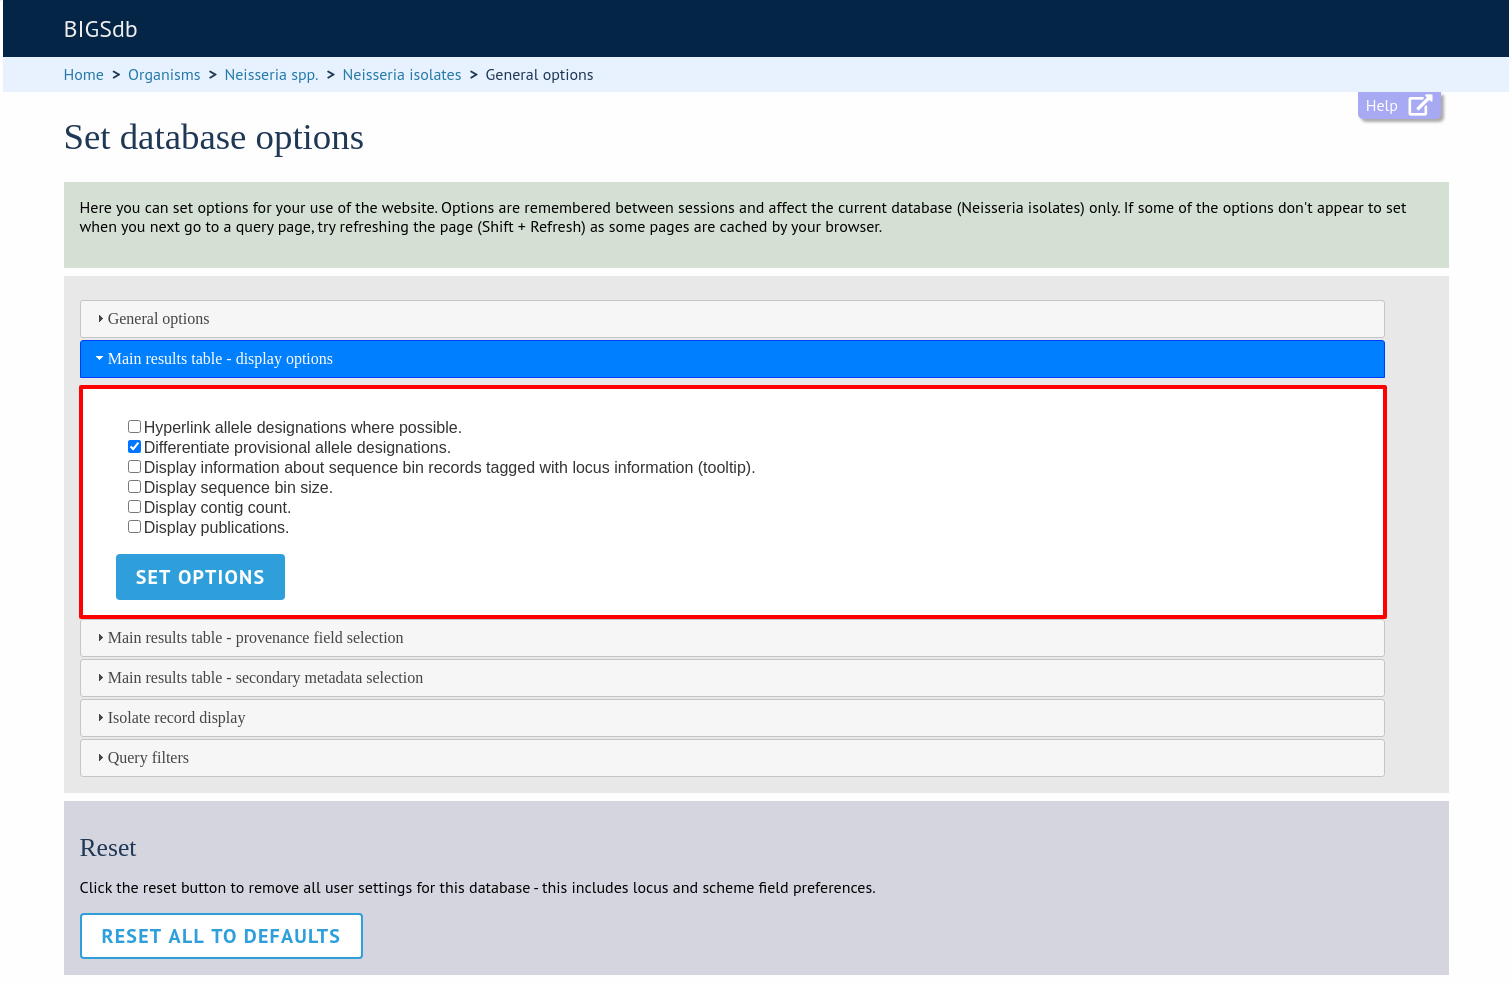
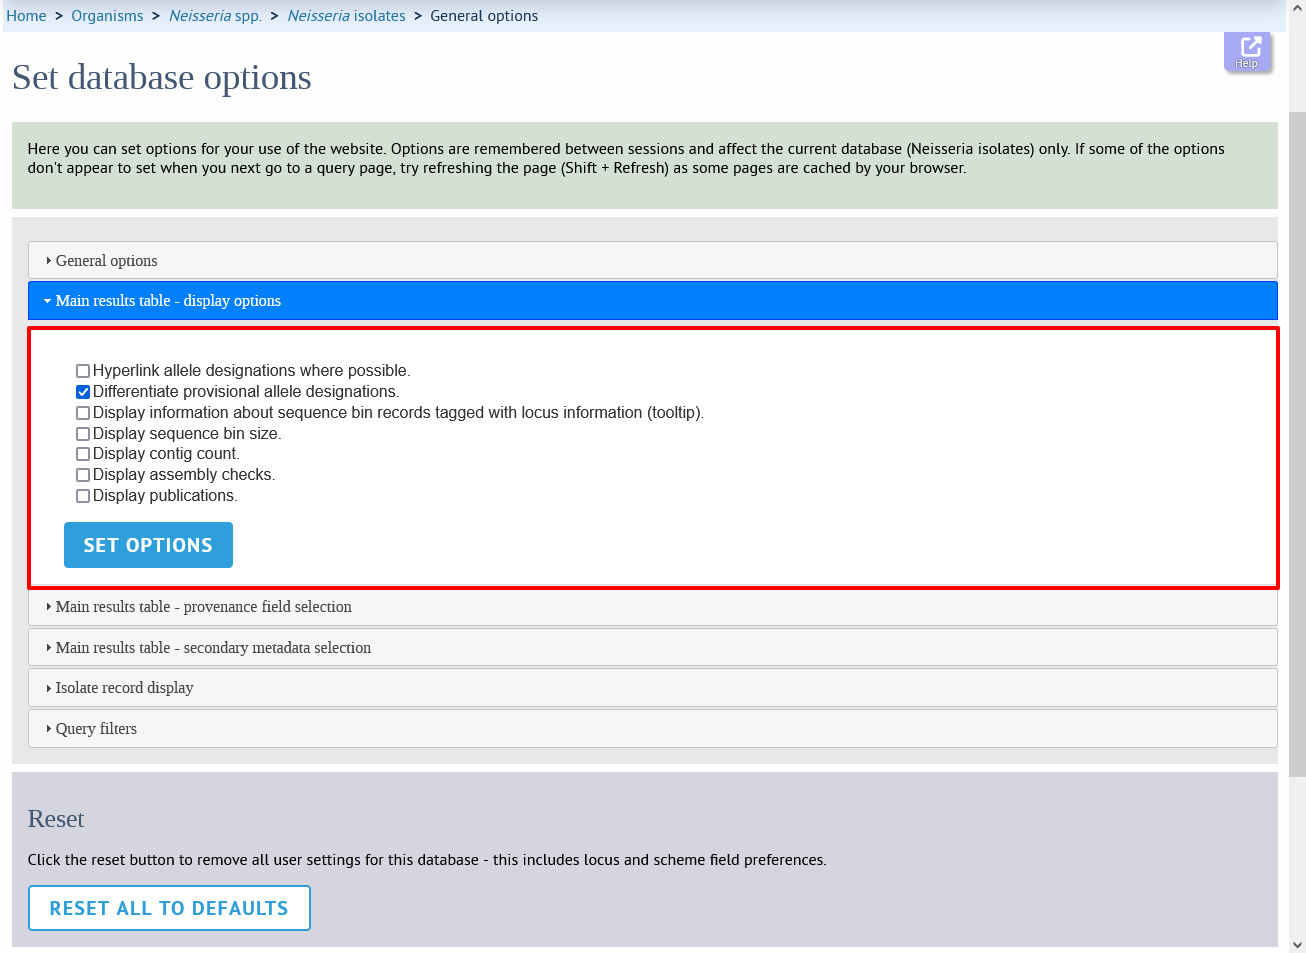
Assembly checks option.

diff --git a/conf.py b/conf.py
@@ -54,9 +54,9 @@ copyright = u'2014-2024, Keith Jolley'
 # built documents.
 #
 # The short X.Y version.
-version = '1.44.0'
+version = '1.45.0'
 # The full version, including alpha/beta/rc tags.
-release = '1.44.0'
+release = '1.45.0'
 
 # The language for content autogenerated by Sphinx. Refer to documentation
 # for a list of supported languages.

diff --git a/dbase_setup.rst b/dbase_setup.rst
@@ -372,6 +372,24 @@ Any value set here can be overridden in a
 * disable_update_message
 
   * Message shown when updates are disabled.
+  
+* display_assembly_checks
+
+  * Add a column to the isolate table results to display the results of 
+    assembly checks (if set up). This can be overridden by user preferences.
+    Set 'yes' or 'no', default is 'no'.
+    
+* display_contig_count
+
+  * Add a column to the isolate table results to display the number of contigs
+    in the record's assembly. This can be overridden by user preferences.
+    Set 'yes' or 'no', default is 'no'.
+    
+* display_seqbin_size
+
+  * Add a column to the isolate table results to display the total length
+    of a record's assembly. This can be overridden by user preferences.
+    Set 'yes' or 'no', default is 'no'.
     
 * eav_fields
 

diff --git a/data_query/0100_options.rst b/data_query/0100_options.rst
@@ -78,6 +78,8 @@ This tab allows the following options to be modified:
   with each isolate record.
 * Contig count - Displays the number of contigs associated with each isolate
   record.
+* Assembly checks - Displays whether assembly checks have passed for a genome
+  record.
 * Publications - Displays citations with links to PubMed for each record.
 
 .. index::
